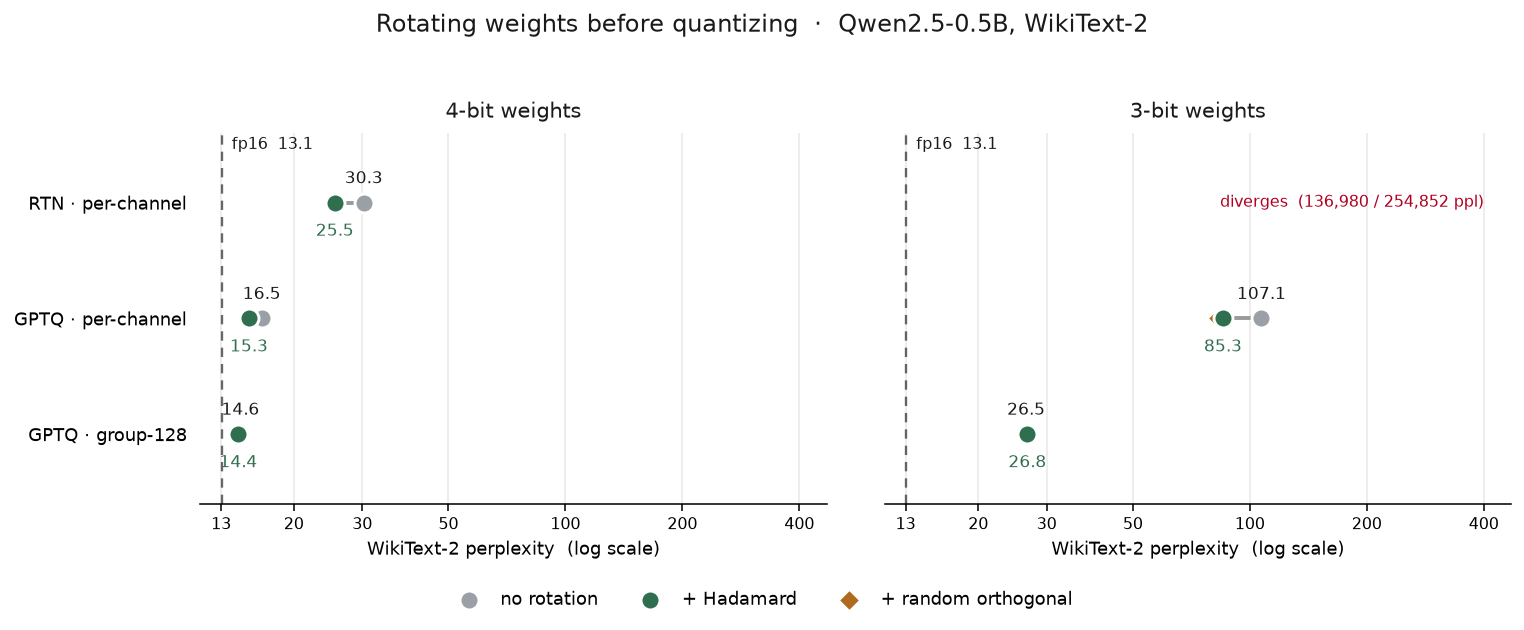
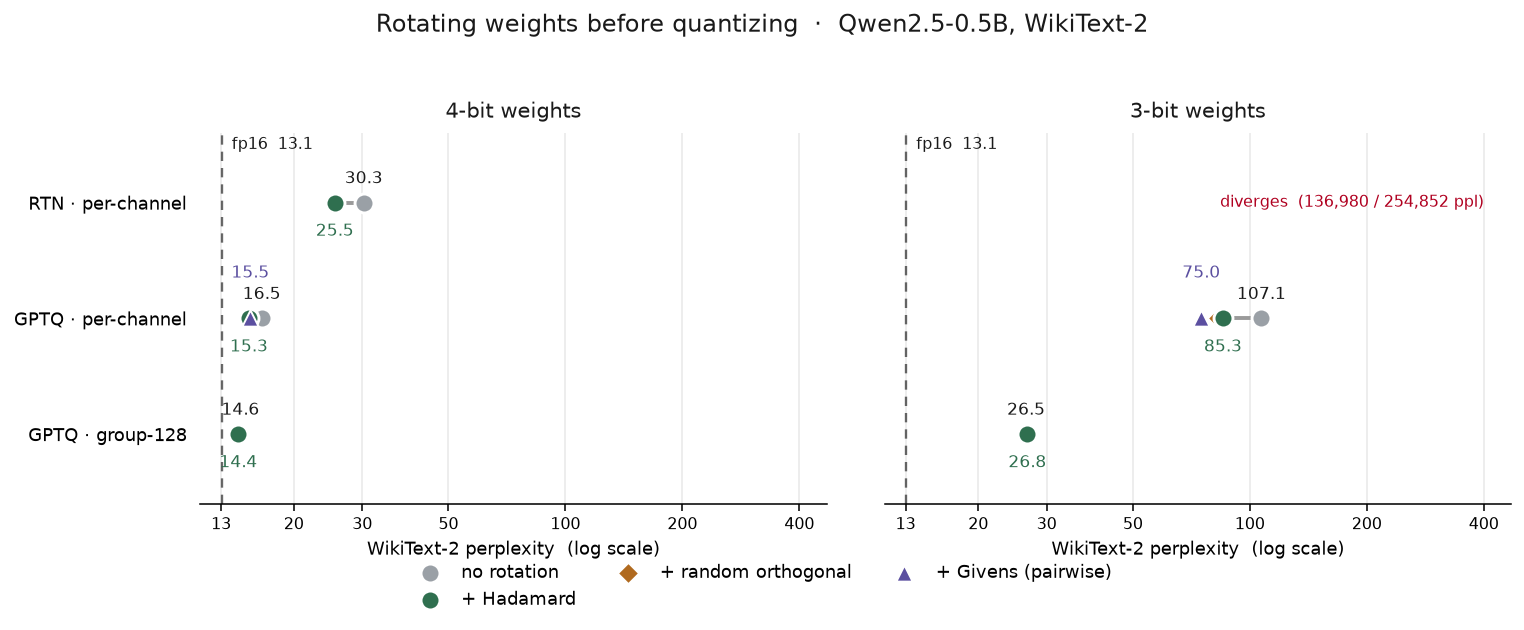
Write up Givens-rotation results: best 3-bit per-channel score in the table
GPTQ 3-bit + Givens: 74.98 ppl, beating both partial Hadamard (85.3) and a
full random orthogonal draw (82.6) - Qwen's non-power-of-two hidden size
(896) only gets a partial Hadamard, but Givens rotation has no such
constraint. 4-bit lands within noise of Hadamard (15.46 vs 15.33).

- README: new table rows, restructured 'reading the table' analysis, updated
  'why rotation works' to cover the three rotation constructions, ParoQuant
  reference, revised Extensions
- plot.py: Givens as a fourth marker on the GPTQ per-channel rows

Claude-Session: https://claude.ai/code/session_01DmFUfMGC2NZD2MHQHobYfJ

diff --git a/scripts/plot.py b/scripts/plot.py
@@ -19,6 +19,7 @@ MUTED = "#9a9a9a"
 NOROT = "#9aa0a6"      # no rotation - recessive
 HAD = "#2f6f4f"        # hadamard - accent
 RAND = "#b06a1f"       # random orthogonal - secondary point
+GIVENS = "#5b4fa0"     # givens (pairwise) rotation - secondary point
 GRID = "#e8e8e8"
 BAD = "#b00020"
 
@@ -57,6 +58,7 @@ def main():
         for y, (method, gs, label) in zip(ypos, ROWS):
             p0, p1 = get(method, gs, bits, "none"), get(method, gs, bits, "hadamard")
             pr = get(method, gs, bits, "random")
+            pg = get(method, gs, bits, "givens")
 
             # both diverge off-scale -> just flag it, no markers
             if p0 and p1 and p0 > XMAX and p1 > XMAX:
@@ -80,6 +82,13 @@ def main():
                 ax.scatter([pr], [y], s=60, color=RAND, marker="D", edgecolor="white",
                            lw=1, zorder=4,
                            label=lbl("+ random orthogonal"))
+            if pg:
+                ax.scatter([pg], [y], s=70, color=GIVENS, marker="^", edgecolor="white",
+                           lw=1, zorder=6,
+                           label=lbl("+ Givens (pairwise)"))
+                ax.annotate(f"{pg:.1f}", (pg, y), xytext=(0, 21),
+                            textcoords="offset points", ha="center", fontsize=8.5,
+                            color=GIVENS)
             if p1:
                 ax.scatter([p1], [y], s=95, color=HAD, edgecolor="white", lw=1.5,
                            zorder=5, label=lbl("+ Hadamard"))
@@ -118,7 +127,7 @@ def main():
             if li not in labels:
                 handles.append(hi)
                 labels.append(li)
-    order = ["no rotation", "+ Hadamard", "+ random orthogonal"]
+    order = ["no rotation", "+ Hadamard", "+ random orthogonal", "+ Givens (pairwise)"]
     pairs = sorted(zip(labels, handles), key=lambda t: order.index(t[0]))
     fig.legend([h for _, h in pairs], [l for l, _ in pairs], loc="lower center",
                ncol=3, frameon=False, fontsize=9, bbox_to_anchor=(0.5, -0.08))

diff --git a/README.md b/README.md
@@ -17,7 +17,7 @@ is explainable.
 |---|---|---|
 | RTN baseline | `ptq/rtn.py`, `ptq/quant.py` | per-channel / per-group, symmetric or asymmetric. The control group. |
 | GPTQ | `ptq/gptq.py` | Hessian from calibration activations, Cholesky-based inverse, column-wise OBQ error compensation (Algorithm 1 + 2 of the paper). Block-by-block so only one block's Hessians are resident. |
-| Rotation (mini-QuaRot) | `ptq/rotation.py` | R1: fuse RMSNorm scales into adjacent linears, then rotate the residual stream by a Hadamard (or random orthogonal) matrix. Function-preserving via computational invariance. |
+| Rotation (mini-QuaRot) | `ptq/rotation.py` | R1: fuse RMSNorm scales into adjacent linears, then rotate the residual stream by a Hadamard, random orthogonal, or Givens (composed pairwise rotations, no power-of-two constraint) matrix. Function-preserving via computational invariance. |
 | Perplexity | `ptq/eval_ppl.py` | WikiText-2, non-overlapping windows - the standard PTQ metric. |
 | Memory / throughput | `ptq/benchmark.py` | theoretical bytes-streamed-per-token + measured tokens/s. |
 
@@ -76,6 +76,8 @@ calibrated on 128 sequences x 2048 tokens, symmetric weights, run on an RTX 3090
 | GPTQ   | 3  | per-channel | none     | 107.09    | +94.02 |
 | GPTQ   | 3  | per-channel | random   | 82.61     | +69.54 |
 | GPTQ   | 3  | per-channel | hadamard | 85.27     | +72.20 |
+| GPTQ   | 4  | per-channel | givens   | 15.46     | +2.39 |
+| GPTQ   | 3  | per-channel | givens   | **74.98** | +61.91 |
 | GPTQ   | 4  | group-128   | none     | 14.57     | +1.50 |
 | GPTQ   | 4  | group-128   | hadamard | 14.40     | +1.33 |
 | GPTQ   | 3  | group-128   | none     | 26.55     | +13.48 |
@@ -102,22 +104,36 @@ calibrated on 128 sequences x 2048 tokens, symmetric weights, run on an RTX 3090
    every other," for which Hadamard is just the cheap `O(n log n)` structured
    choice.
 
-4. **Rotation alone does not rescue 3-bit here, and that is the interesting
-   part.** GPTQ-3 + Hadamard is still 85 ppl against fp16's 13. Qwen2.5-0.5B has
+4. **A full Hadamard alone does not rescue 3-bit here - because Qwen never gets
+   one.** GPTQ-3 + Hadamard is still 85 ppl against fp16's 13. Qwen2.5-0.5B has
    hidden size 896 = 128 x 7, which is not a power of two, so `hadamard_matrix()`
    falls back to `kron(H_128, I_7)` - it only mixes channels *within* each block
-   of 128 and leaves the 7 blocks unmixed. A model with a power-of-two hidden
-   dimension (Llama-3.2-1B, 2048) gets a full Hadamard; that is the natural next
-   data point.
+   of 128 and leaves the 7 blocks unmixed.
 
-5. **Group scales and rotation solve overlapping problems.** Moving GPTQ to
+5. **A rotation with no power-of-two constraint closes most of that gap.**
+   `ptq/rotation.py` also implements a Givens-rotation mode (composed random
+   pairwise plane rotations - the approach in ParoQuant, Liang et al. 2025):
+   it needs no power-of-two hidden size, since it is built from `n/2` 2x2
+   rotations per layer rather than a fixed butterfly. At GPTQ-3 per-channel it
+   reaches **74.98 ppl - better than the partial Hadamard (85.3) and better
+   than a full random orthogonal draw (82.6)**, the best 3-bit per-channel
+   result in this table. At 4-bit it lands within noise of Hadamard (15.46 vs
+   15.33) - consistent with rotation choice mattering most exactly where the
+   outlier problem is hardest. Llama-3.2-1B (hidden 2048, a genuine
+   power-of-two) is still the cleaner test of a *full* Hadamard specifically,
+   but Givens rotation sidesteps the question entirely: it works on any hidden
+   size without a fallback.
+
+6. **Group scales and rotation solve overlapping problems.** Moving GPTQ to
    group-128 scales takes 3-bit from unusable (107) to 26.5 and 4-bit to within
-   1.5 ppl of fp16. Once the scale is local to a 128-wide group, the group max
-   already tracks local outliers, and adding the (partial) rotation on top
-   changes nothing: 14.57 -> 14.40 at 4-bit, 26.55 -> 26.76 at 3-bit. On this
-   model, per-group quantization is the bigger lever; rotation is what you reach
-   for when you want to keep a *single* scale per channel (cheaper metadata,
-   simpler kernels) and still survive 4-bit.
+   1.5 ppl of fp16 - still well ahead of per-channel + Givens (75.0). Once the
+   scale is local to a 128-wide group, the group max already tracks local
+   outliers, and adding the (partial) rotation on top changes nothing: 14.57 ->
+   14.40 at 4-bit, 26.55 -> 26.76 at 3-bit. On this model, per-group
+   quantization is the bigger lever; rotation is what you reach for when you
+   want to keep a *single* scale per channel (cheaper metadata, simpler
+   kernels) and still survive low-bit weights - and if you're in that regime,
+   which rotation you pick clearly matters (75.0 vs 85.3 vs 107.1).
 
 ## Why rotation works
 
@@ -131,8 +147,13 @@ calibrated on 128 sequences x 2048 tokens, symmetric weights, run on an RTX 3090
    Johnson-Lindenstrauss / concentration argument the rotated vector looks
    near-Gaussian with a much smaller max/RMS ratio, so a uniform grid fits it
    well. A Hadamard matrix is the cheap structured choice: `O(n log n)`, entries
-   `+-1/sqrt(n)`. The ablation confirms a *random* orthogonal matrix works
-   equally well - the structure buys speed, not accuracy.
+   `+-1/sqrt(n)`, but it demands a power-of-two `n`. A *random* orthogonal
+   matrix (full QR-based draw) works equally well and needs no such
+   constraint - the structure buys speed, not accuracy. Composed pairwise
+   Givens rotations (`givens_rotation()`) are a third option in the same
+   family: no power-of-two constraint like random, but built from cheap `O(n)`
+   plane rotations per layer rather than one dense `O(n^2)` QR factorization -
+   and on Qwen's non-power-of-two hidden size it was the best of the three.
 
 3. **Why it's free at inference (computational invariance).** RMSNorm is
    invariant to an orthogonal rotation of its input (it only divides by the
@@ -147,13 +168,19 @@ calibrated on 128 sequences x 2048 tokens, symmetric weights, run on an RTX 3090
    bytes) / HBM bandwidth. Going 16 -> 4 bit is a ~4x cut in bytes streamed per
    token. Rotation is one of the tools that lets you take that cut while keeping
    a single scale per channel and without accuracy falling off a cliff - most
-   effective, on the evidence here, when the hidden dimension admits a full
-   Hadamard.
+   effective, on the evidence here, when the rotation actually achieves
+   full-rank mixing (a full Hadamard, a random draw, or enough Givens layers),
+   and weakest when a shape mismatch (a non-power-of-two hidden size) forces a
+   partial one.
 
 ## Extensions
 
-- Llama-3.2-1B (hidden 2048): a clean power-of-two Hadamard, to test whether full
-  channel mixing closes the 3-bit gap that the partial `kron(H_128, I_7)` cannot
+- Llama-3.2-1B (hidden 2048): a clean power-of-two Hadamard, as the direct
+  comparison point for how a *full* Hadamard stacks up against Givens rotation
+  on the same architecture, now that both are implemented
+- Learned Givens angles instead of random ones (ParoQuant optimizes them; here
+  they're drawn once from a fixed seed) - likely closes more of the remaining
+  gap to random/full-Hadamard mixing
 - KV-cache int8/int4 (the long-context bandwidth bottleneck)
 - R2/R3/R4 rotations for activation quantization (W4A4)
 - packed int4 storage + a real fast kernel (Marlin) for a measured tokens/s number
@@ -163,4 +190,6 @@ calibrated on 128 sequences x 2048 tokens, symmetric weights, run on an RTX 3090
 - Frantar et al., *GPTQ: Accurate Post-Training Quantization for Generative
   Pre-trained Transformers*, 2023
 - Ashkboos et al., *QuaRot: Outlier-Free 4-Bit Inference in Rotated LLMs*, 2024
+- Liang, Chen, Han, Liu, *ParoQuant: Pairwise Rotation Quantization for
+  Efficient Reasoning LLM Inference*, 2025 (the Givens-rotation idea used here)
 - Chee et al., *QuIP*, 2023; Tseng et al., *QuIP#*, 2024 (incoherence processing)
